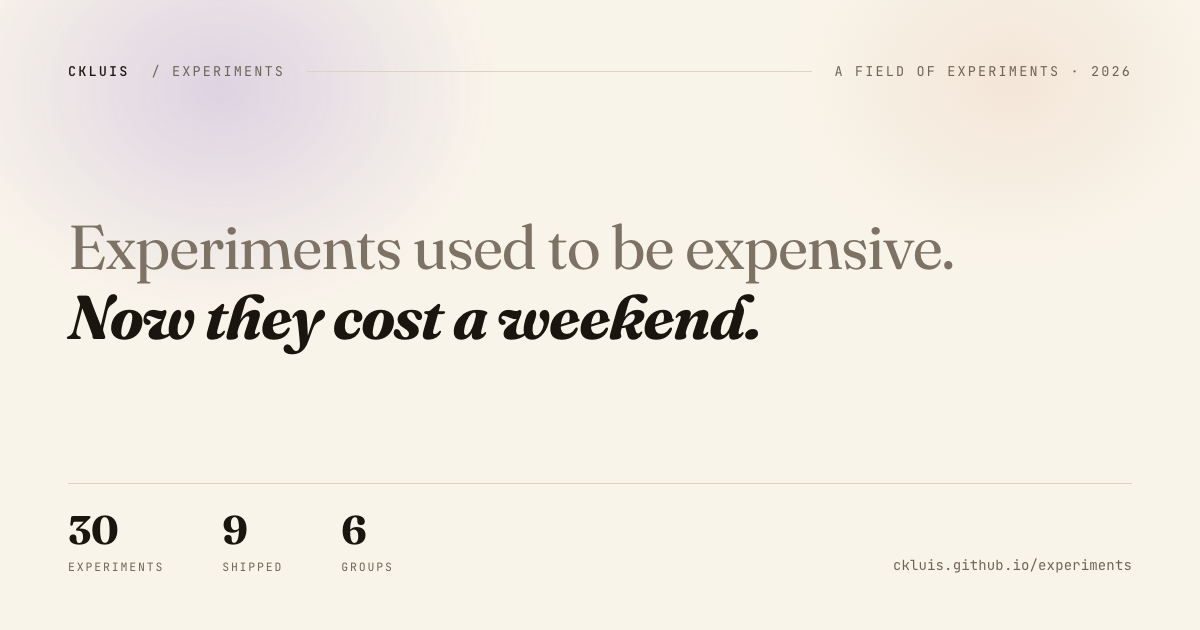
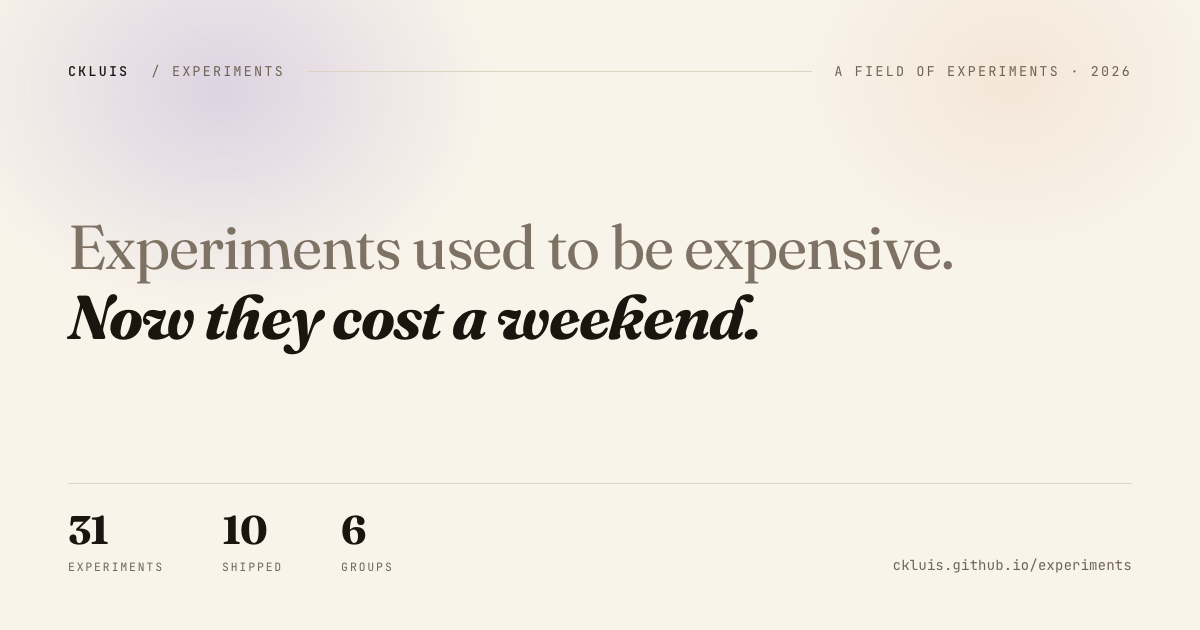
Add Kolom to Products
Kolom, a native macOS scrolling-strip tiler with plain-language layouts on
Apple's on-device model, goes first in Products with a hand-drawn preview.
Index, registry, README table, GitHub stats and the social card are rebuilt
(31 experiments, 10 shipped).

diff --git a/index.html b/index.html
@@ -5,22 +5,22 @@
 <meta charset="UTF-8">
 <meta name="viewport" content="width=device-width, initial-scale=1.0">
 <title>Experiments — Chris Kluis</title>
-<meta name="description" content="A field index of 30 experiments by Chris Kluis: foundations, platforms &amp; frameworks, agent tools, products, bend experiments and design studies. Most built solo in spare hours, all in the open.">
+<meta name="description" content="A field index of 31 experiments by Chris Kluis: foundations, platforms &amp; frameworks, agent tools, products, bend experiments and design studies. Most built solo in spare hours, all in the open.">
 <link rel="canonical" href="https://ckluis.github.io/experiments/">
 <meta property="og:type" content="website">
 <meta property="og:site_name" content="ckluis / experiments">
 <meta property="og:url" content="https://ckluis.github.io/experiments/">
 <meta property="og:title" content="Experiments — Chris Kluis">
-<meta property="og:description" content="A field index of 30 experiments by Chris Kluis: foundations, platforms &amp; frameworks, agent tools, products, bend experiments and design studies. Most built solo in spare hours, all in the open.">
+<meta property="og:description" content="A field index of 31 experiments by Chris Kluis: foundations, platforms &amp; frameworks, agent tools, products, bend experiments and design studies. Most built solo in spare hours, all in the open.">
 <meta property="og:image" content="https://ckluis.github.io/experiments/previews/social-experiments.png">
 <meta property="og:image:width" content="1200">
 <meta property="og:image:height" content="630">
-<meta property="og:image:alt" content="Experiments used to be expensive. Now they cost a weekend. 30 experiments, 9 shipped, 6 groups.">
+<meta property="og:image:alt" content="Experiments used to be expensive. Now they cost a weekend. 31 experiments, 10 shipped, 6 groups.">
 <meta name="twitter:card" content="summary_large_image">
 <meta name="twitter:site" content="@ckluis">
 <meta name="twitter:creator" content="@ckluis">
 <meta name="twitter:title" content="Experiments — Chris Kluis">
-<meta name="twitter:description" content="A field index of 30 experiments by Chris Kluis: foundations, platforms &amp; frameworks, agent tools, products, bend experiments and design studies. Most built solo in spare hours, all in the open.">
+<meta name="twitter:description" content="A field index of 31 experiments by Chris Kluis: foundations, platforms &amp; frameworks, agent tools, products, bend experiments and design studies. Most built solo in spare hours, all in the open.">
 <meta name="twitter:image" content="https://ckluis.github.io/experiments/previews/social-experiments.png">
 <script>document.documentElement.classList.add('js')</script>
 <link rel="preconnect" href="https://fonts.googleapis.com">
@@ -226,7 +226,7 @@ html:not(.js) .filters{display:none}
   <div class="wrap">
     <a href="#" class="brand"><b>ckluis</b> / experiments</a>
     <div class="navlinks"><a href="#foundations" data-nav="foundations" style="--g:#6b4ec2"><span>01</span>Foundations</a><a href="#frameworks" data-nav="frameworks" style="--g:#c56a3a"><span>02</span>Platforms &amp; frameworks</a><a href="#agent-tools" data-nav="agent-tools" style="--g:#2f7d6d"><span>03</span>Agent tools</a><a href="#products" data-nav="products" style="--g:#a87a1f"><span>04</span>Products</a><a href="#field-reports" data-nav="field-reports" style="--g:#3a6ea5"><span>05</span>Bend experiments</a><a href="#design-studies" data-nav="design-studies" style="--g:#b4456a"><span>06</span>Design studies</a></div>
-    <span class="navcount"><b>30</b> experiments</span>
+    <span class="navcount"><b>31</b> experiments</span>
   </div>
 </nav>
 
@@ -239,8 +239,8 @@ html:not(.js) .filters{display:none}
     <div>
       <p class="lede">So I run a lot of them. Everything here is an idea I gave a night or two, most built solo in spare hours. The barrier to trying something didn't move. <b>It disappeared.</b></p>
       <div class="hstats">
-        <div><b>30</b><span>Experiments</span></div>
-        <div><b>9</b><span>Shipped</span></div>
+        <div><b>31</b><span>Experiments</span></div>
+        <div><b>10</b><span>Shipped</span></div>
         <div><b>6</b><span>Project types</span></div>
       </div>
     </div>
@@ -264,8 +264,8 @@ html:not(.js) .filters{display:none}
 <main class="ix" id="index" data-show="all">
   <div class="wrap">
     <div class="ixbar">
-      <h2>The index<span>30 projects</span></h2>
-      <div class="filters" role="group" aria-label="Filter by status"><button type="button" data-filter="all" aria-pressed="true">All<span>30</span></button><button type="button" data-filter="shipped" aria-pressed="false">Shipped<span>9</span></button><button type="button" data-filter="progress" aria-pressed="false">Spec & concept<span>14</span></button><button type="button" data-filter="case" aria-pressed="false">Case studies<span>3</span></button><button type="button" data-filter="archived" aria-pressed="false">Archived<span>4</span></button></div>
+      <h2>The index<span>31 projects</span></h2>
+      <div class="filters" role="group" aria-label="Filter by status"><button type="button" data-filter="all" aria-pressed="true">All<span>31</span></button><button type="button" data-filter="shipped" aria-pressed="false">Shipped<span>10</span></button><button type="button" data-filter="progress" aria-pressed="false">Spec & concept<span>14</span></button><button type="button" data-filter="case" aria-pressed="false">Case studies<span>3</span></button><button type="button" data-filter="archived" aria-pressed="false">Archived<span>4</span></button></div>
     </div>
     <div class="thead" aria-hidden="true"><span>Project</span><span>Description</span><span>Status</span><span class="r">Stars</span><span class="r">Forks</span><span></span></div>
     <section class="tg" id="foundations" style="--g:#6b4ec2"><span id="substrate" class="alias" aria-hidden="true"></span><span id="languages" class="alias" aria-hidden="true"></span>
@@ -413,7 +413,7 @@ html:not(.js) .filters{display:none}
             <p class="kq">What if the boring 80% of a SaaS product came preset — and you could support tenants without ever seeing their customers?</p>
             <p class="kdesc">A governed B2B-SaaS foundry that presets the boring 80% — identity, CRM, billing, support, and the product UI — as six governed idioms on one Postgres per product. Support your tenants without ever seeing their customers.</p>
             
-            <div class="ks"><span>Elixir</span><span>Ash</span><span>Oban</span><span>Postgres</span><span class="kd">updated Oct 5, 2026</span></div>
+            <div class="ks"><span>Elixir</span><span>Ash</span><span>Oban</span><span>Postgres</span><span class="kd">updated Oct 26, 2026</span></div>
             <div class="kls"><a class="kb" href="https://ckluis.github.io/samen/" target="_blank" rel="noopener">Live ↗</a><a class="kl" href="https://github.com/ckluis/samen" target="_blank" rel="noopener">Code ↗</a></div>
           </div>
         </div>
@@ -599,7 +599,7 @@ html:not(.js) .filters{display:none}
             <p class="kq">What if the orchestrator never read a file, and its thread lasted as long as the work did?</p>
             <p class="kdesc">A Claude Code mod. During a run the prime may only dispatch, ask and use its memory; a guard refuses everything else. Sub-orchestrators run each phase and hand back one line of at most 280 bytes, noted into a memory the prime can zoom into. Rulings you give stick across runs, irreversible commands from any agent wait for you, and every behavior change lands red, green, blue. Underneath is still the router prompt and its record: evidence that cites, verdicts per criterion, gates a person holds, and TEAM: github for a team.</p>
             <div class="kf"><span><b>0</b> files the prime reads</span><span><b>≤280 B</b> back from a phase</span><span><b>27</b> hooks</span></div>
-            <div class="ks"><span>Claude Code mod</span><span>JavaScript</span><span>Multi-agent</span><span class="kd">updated Oct 5, 2026</span></div>
+            <div class="ks"><span>Claude Code mod</span><span>JavaScript</span><span>Multi-agent</span><span class="kd">updated Oct 19, 2026</span></div>
             <div class="kls"><a class="kb" href="https://ckluis.github.io/baton/" target="_blank" rel="noopener">Live ↗</a><a class="kl" href="https://github.com/ckluis/baton" target="_blank" rel="noopener">Code ↗</a><a class="kl" href="https://github.com/ckluis/baton/blob/main/CHANGELOG.md" target="_blank" rel="noopener">Changelog ↗</a><a class="kl" href="https://ckluis.github.io/baton/baton-v6.html" target="_blank" rel="noopener">v6 ↗</a></div>
           </div>
         </div>
@@ -677,9 +677,31 @@ html:not(.js) .filters{display:none}
         <span class="tgn">04</span>
         <h2>Products</h2>
         <p>Built to be used — by someone, this week.</p>
-        <span class="tgc">5</span>
+        <span class="tgc">6</span>
       </header>
       <ol class="rows">
+      <li class="row" id="kolom" data-status="shipped">
+        <a class="rlink" href="https://ckluis.github.io/kolom/" target="_blank" rel="noopener">
+          <span class="c-proj"><b>Kolom</b></span>
+          <span class="c-desc">every Mac window in a column of one scrolling strip</span>
+          <span class="c-st s-shipped"><i></i>Shipped</span>
+          <span class="c-num zero">0</span>
+          <span class="c-num zero">0</span>
+          <span class="c-go" aria-hidden="true">↗</span>
+        </a>
+        <details class="more"><summary aria-label="Preview Kolom"><span></span></summary></details>
+        <div class="card" style="--g:#a87a1f">
+          <div class="kimg"><img src="groups/products/kolom/preview.svg" alt="Kolom: a Mac screen with a slim rail and app windows in columns, and an Ask Kolom bar reading 3×2 terminals" loading="lazy" decoding="async" width="640" height="400"></div>
+          <div class="kbody">
+            <div class="kt"><b>Kolom</b><span class="kst s-shipped">Shipped</span></div>
+            <p class="kq">What if your Mac&#39;s windows lined up in a strip you could swipe through, and you could ask for a layout in plain words?</p>
+            <p class="kdesc">A native macOS tiling window manager: real windows in columns of a sideways-scrolling strip, one strip per display, stacks of up to three, and a rail with live CPU, memory and network. A display staircase keeps columns sliding cleanly off every edge between monitors. Press ⌥K and type &quot;3×2 terminals on screen 2&quot;: Apple&#39;s on-device model turns it into one checked action, with nothing leaving the Mac. Agent-ready through kolomctl and MCP, and pause, quit or a crash puts every window back.</p>
+            <div class="kf"><span><b>⌥K</b> plain-language layouts, on device</span><span><b>25</b> groups of core checks</span></div>
+            <div class="ks"><span>Swift</span><span>AppKit</span><span>SwiftUI</span><span>Accessibility API</span><span>Foundation Models</span><span>MCP</span><span class="kd">updated Oct 26, 2026</span></div>
+            <div class="kls"><a class="kb" href="https://ckluis.github.io/kolom/" target="_blank" rel="noopener">Live demo ↗</a><a class="kl" href="https://github.com/ckluis/kolom" target="_blank" rel="noopener">Code ↗</a></div>
+          </div>
+        </div>
+      </li>
       <li class="row" id="aiCRO" data-status="shipped">
         <a class="rlink" href="https://ckluis.github.io/aiCRO/" target="_blank" rel="noopener">
           <span class="c-proj"><b>aiCRO</b></span>
@@ -719,7 +741,7 @@ html:not(.js) .filters{display:none}
             <p class="kq">What if an AI-built F# port could match the Rust port of Basecamp&#39;s Campfire byte for byte, and then beat it?</p>
             <p class="kdesc">A full port of ONCE Campfire to F# on ASP.NET Core and Falco, translated from the Rust port by phased agent workflows and checked against it: every parity screen identical, golden vectors and differentials passing, a drop-in for existing installs. Then tuned against Rust on the same machine: 1.24-1.33x its throughput on all five benchmarked workloads, at less CPU per request.</p>
             <div class="kf"><span><b>1.2-1.4×</b> Rust&#39;s throughput</span><span><b>214/214</b> parity cells match Rust</span></div>
-            <div class="ks"><span>F#</span><span>.NET 10</span><span>ASP.NET Core</span><span>Falco</span><span>SQLite</span><span class="kd">updated Oct 7, 2026</span></div>
+            <div class="ks"><span>F#</span><span>.NET 10</span><span>ASP.NET Core</span><span>Falco</span><span>SQLite</span><span class="kd">updated Oct 13, 2026</span></div>
             <div class="kls"><a class="kb" href="https://ckluis.github.io/once-campfire-fSharp/" target="_blank" rel="noopener">Live ↗</a><a class="kl" href="https://github.com/ckluis/once-campfire-fSharp" target="_blank" rel="noopener">Code ↗</a></div>
           </div>
         </div>
@@ -994,8 +1016,8 @@ html:not(.js) .filters{display:none}
 <section class="built">
   <div class="wrap bgrid">
     <div>
-      <h2>30 folders, one registry, <em>one page.</em></h2>
-      <p>Each project is a folder with an <code style="padding:1px 5px;font-size:12px">item.json</code> and a drawing of its idea. A zero-dependency script writes this page from them. Stars and forks from GitHub, Oct 7, 2026.</p>
+      <h2>31 folders, one registry, <em>one page.</em></h2>
+      <p>Each project is a folder with an <code style="padding:1px 5px;font-size:12px">item.json</code> and a drawing of its idea. A zero-dependency script writes this page from them. Stars and forks from GitHub, Oct 26, 2026.</p>
     </div>
     <code><span>$</span> node build/build.mjs</code>
   </div>

diff --git a/previews/_social-experiments-src.html b/previews/_social-experiments-src.html
@@ -35,8 +35,8 @@ h1 em{display:block;font-style:italic;font-weight:700;color:#1a160f;margin-top:4
     <div class="hr"></div>
     <div class="bot">
       <div class="stats">
-        <div class="s"><div class="n">30</div><div class="l">Experiments</div></div>
-        <div class="s"><div class="n">9</div><div class="l">Shipped</div></div>
+        <div class="s"><div class="n">31</div><div class="l">Experiments</div></div>
+        <div class="s"><div class="n">10</div><div class="l">Shipped</div></div>
         <div class="s"><div class="n">6</div><div class="l">Groups</div></div>
       </div>
       <div class="url">ckluis.github.io/experiments</div>

diff --git a/README.md b/README.md
@@ -53,6 +53,7 @@ folder and its metadata — don't edit it by hand.
 | Agent tools | **luminaryTeam** — a 40-expert adversarial review | Prompts · Multi-agent · Claude | Archived | [live](https://ckluis.github.io/luminaryTeam/) · [code](https://github.com/ckluis/luminaryTeam) |
 | Agent tools | **senkani** — token compression for coding agents | Swift · macOS · MCP | Archived | [live](https://ckluis.github.io/senkani) · [code](https://github.com/ckluis/senkani) |
 | Agent tools | **workflowForge** — paste a workflow, get a page you can send | Single-file HTML · SVG renderer · Bring your own model · No server | Shipped | [live](https://ckluis.github.io/workflowForge/) · [code](https://github.com/ckluis/workflowForge) |
+| Products | **Kolom** — every Mac window in a column of one scrolling strip | Swift · AppKit · SwiftUI · Accessibility API · Foundation Models · MCP | Shipped | [live demo](https://ckluis.github.io/kolom/) · [code](https://github.com/ckluis/kolom) |
 | Products | **aiCRO** — a full growth engagement from one URL | Node.js · Claude · Self-contained HTML | Shipped | [live](https://ckluis.github.io/aiCRO/) · [code](https://github.com/ckluis/aiCRO) |
 | Products | **once-campfire-fSharp** — Campfire in F#, faster than the Rust port | F# · .NET 10 · ASP.NET Core · Falco · SQLite | Shipped | [live](https://ckluis.github.io/once-campfire-fSharp/) · [code](https://github.com/ckluis/once-campfire-fSharp) |
 | Products | **terminalHelper** — a searchable terminal command reference | Go · Bubble Tea · SQLite | Shipped | [read the spec](terminalHelper.html) · [code](https://github.com/ckluis/terminalHelper) |
